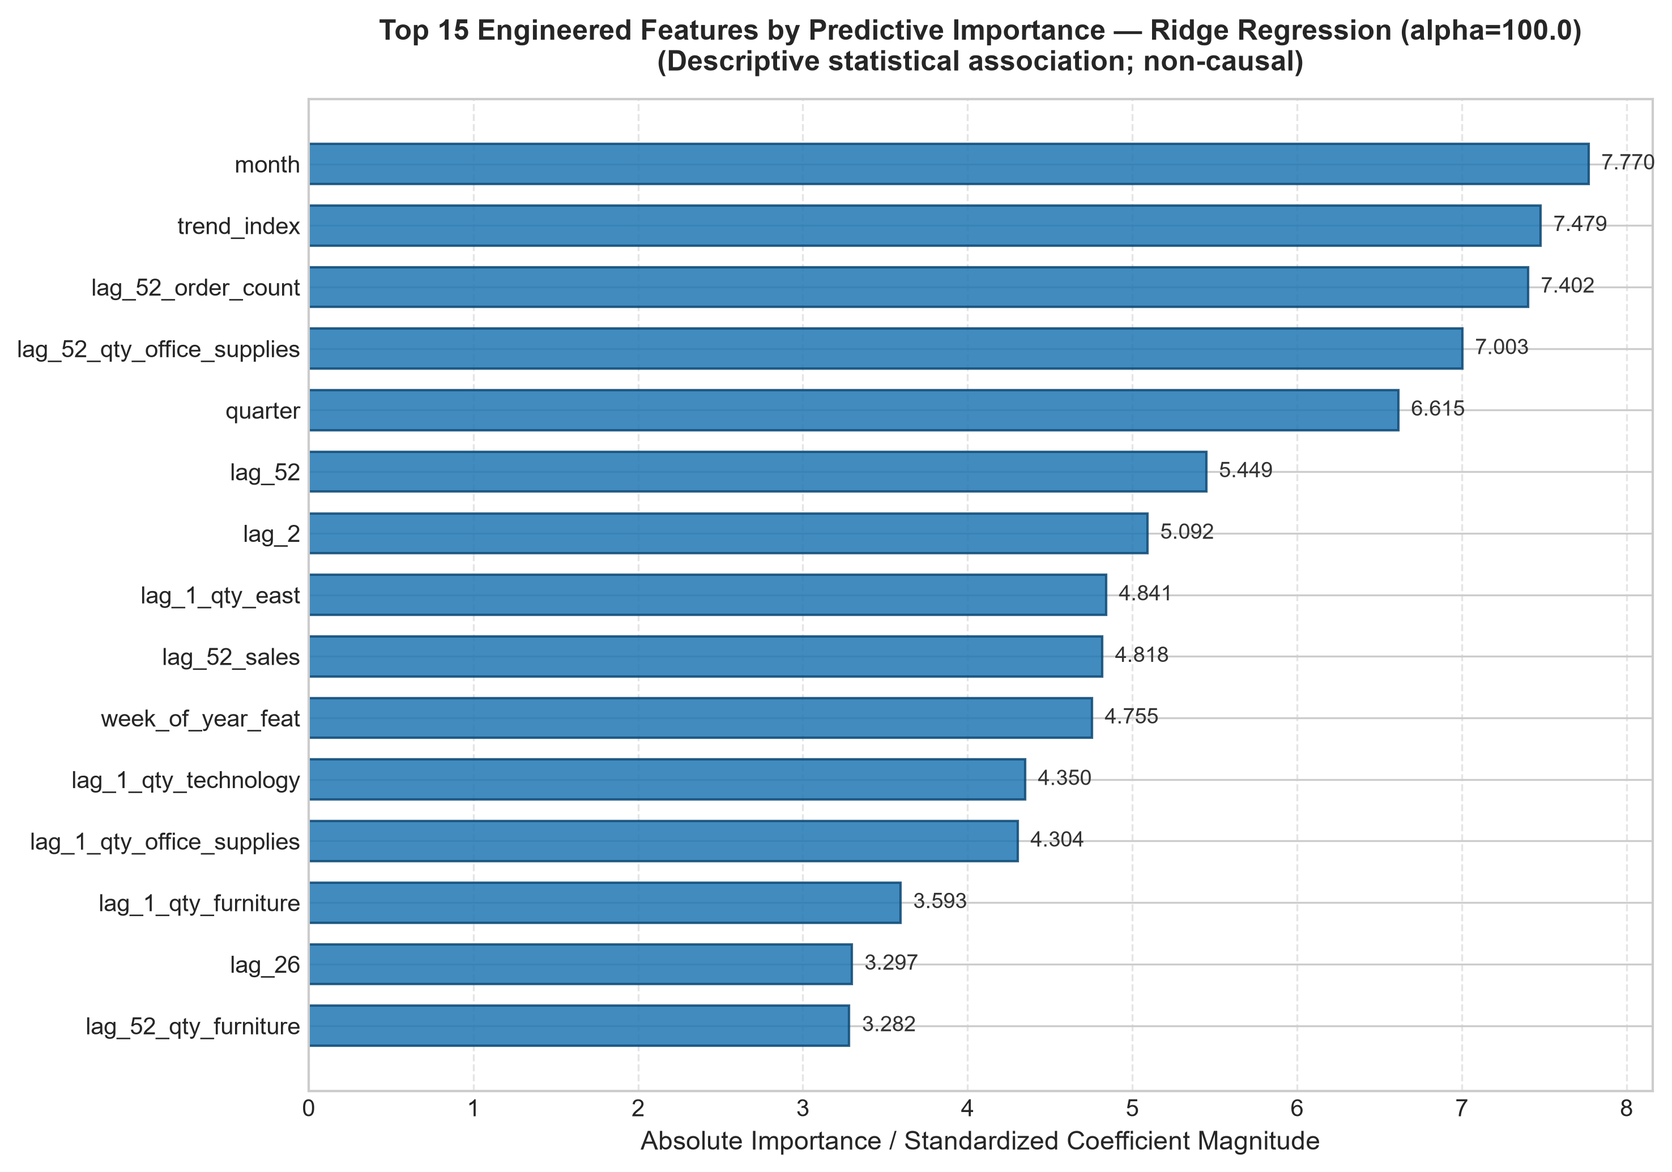
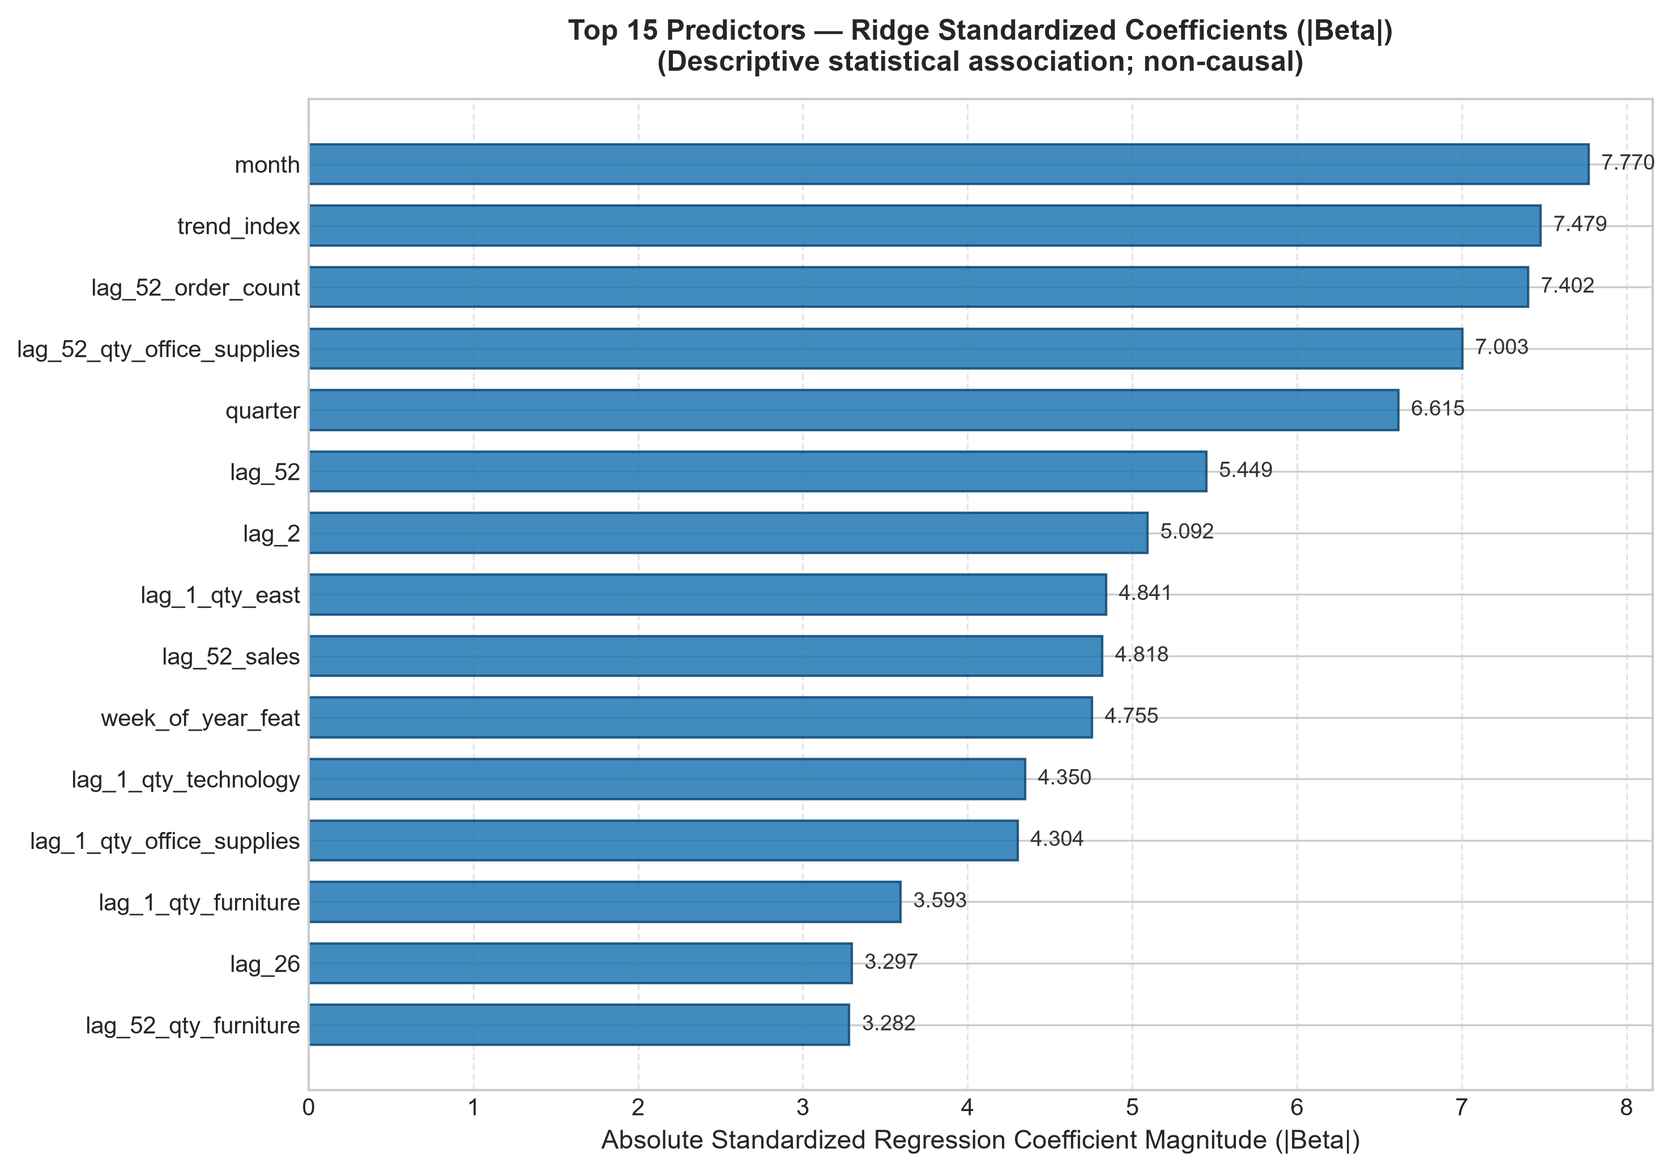
docs(phase6): document forecasting-origin scenario, effective sample-size difference, and update Ridge terminology

Changed region(s): [[0.2182, 0.0, 0.935, 0.0619], [0.3428, 0.9589, 0.8103, 0.9899]]

diff --git a/src/features/feature_engineering.py b/src/features/feature_engineering.py
@@ -1,8 +1,25 @@
 """Feature engineering module for weekly demand forecasting.
 
-This module constructs temporal, autoregressive lag, rolling historical summary,
-and lagged business features while strictly preventing lookahead and future leakage.
-It also provides an exhaustive, documented Feature Leakage Audit.
+Forecasting Scenario & Origin Assumption:
+------------------------------------------
+"At the end of completed week t, the system forecasts demand for week t+1."
+
+Under this one-step-ahead / rolling forecasting scenario, lagged business features
+(e.g., lag_1_sales, lag_1_profit, lag_1_order_count, lag_1_transaction_count,
+lag_1_unique_customers) are fully observed and available because week t has already completed.
+
+Important Horizon Limitation:
+------------------------------
+These lagged business features would NOT be available for a long-horizon 52-week-ahead
+direct/static forecast unless separately forecasted or supplied as known exogenous variables.
+
+Training Sample Size Consideration:
+------------------------------------
+Holt-Winters and SARIMA utilize the complete 2014-2016 training history (156 complete weeks).
+In contrast, the ML feature matrix requires 52 historical observations to populate the lag_52
+features, leaving 105 effective training observations (2014-12-29 to 2016-12-26).
+This difference in effective training sample size is an inherent structural distinction
+between univariate state-space smoothing and autoregressive tabular feature representations.
 """
 
 from typing import Dict, List, Optional, Tuple
@@ -46,6 +63,8 @@ def build_weekly_feature_dataset(
 ) -> Tuple[pd.DataFrame, List[str]]:
     """Construct complete weekly feature matrix with temporal, lag, rolling, and business features.
 
+    Forecasting Origin Assumption:
+    At the end of week t, forecast target_quantity for week t+1.
     All rolling and business features strictly use lagged historical information (t-1, t-52)
     to guarantee zero lookahead leakage.
 
@@ -118,7 +137,7 @@ def build_weekly_feature_dataset(
 
 
 def generate_feature_leakage_audit() -> pd.DataFrame:
-    """Generate exhaustive documented Feature Leakage Audit table.
+    """Generate exhaustive documented Feature Leakage Audit table with forecast-origin context.
 
     Returns:
         DataFrame cataloging every feature, its source, temporal classification, availability status, and rationale.
@@ -133,7 +152,7 @@ def generate_feature_leakage_audit() -> pd.DataFrame:
         {"Feature": "cos_woy", "Category": "Temporal", "Shift/Window": "Calendar", "Temporal Class": "Known at forecast time", "Status": "ALLOWED", "Rationale": "Cosinesoidal annual cyclical encoding known in advance."},
 
         # Target Lags
-        {"Feature": "lag_1", "Category": "Target Lag", "Shift/Window": "Shift -1", "Temporal Class": "Historical (t-1)", "Status": "ALLOWED", "Rationale": "Prior week actual demand, fully observed at prediction time."},
+        {"Feature": "lag_1", "Category": "Target Lag", "Shift/Window": "Shift -1", "Temporal Class": "Historical (t-1)", "Status": "ALLOWED", "Rationale": "Prior week actual demand, fully observed at prediction time (end of week t)."},
         {"Feature": "lag_2", "Category": "Target Lag", "Shift/Window": "Shift -2", "Temporal Class": "Historical (t-2)", "Status": "ALLOWED", "Rationale": "Observed 2 weeks prior."},
         {"Feature": "lag_4", "Category": "Target Lag", "Shift/Window": "Shift -4", "Temporal Class": "Historical (t-4)", "Status": "ALLOWED", "Rationale": "Observed 4 weeks prior."},
         {"Feature": "lag_8", "Category": "Target Lag", "Shift/Window": "Shift -8", "Temporal Class": "Historical (t-8)", "Status": "ALLOWED", "Rationale": "Observed 8 weeks prior."},
@@ -149,14 +168,14 @@ def generate_feature_leakage_audit() -> pd.DataFrame:
         {"Feature": "rolling_std_13", "Category": "Rolling Target", "Shift/Window": "Shift -1, Win 13", "Temporal Class": "Historical (t-13 to t-1)", "Status": "ALLOWED", "Rationale": "13-week demand volatility on lagged values; excludes y_t."},
 
         # Lagged Business Features
-        {"Feature": "lag_1_sales", "Category": "Business Lag", "Shift/Window": "Shift -1", "Temporal Class": "Historical (t-1)", "Status": "ALLOWED", "Rationale": "Prior week total sales revenue observed at prediction time."},
+        {"Feature": "lag_1_sales", "Category": "Business Lag", "Shift/Window": "Shift -1", "Temporal Class": "Historical (t-1)", "Status": "ALLOWED", "Rationale": "Prior week total sales revenue observed at end of completed week t. (Note: unavailable for 52-week-ahead forecast without exogenous forecasts)."},
         {"Feature": "lag_52_sales", "Category": "Business Lag", "Shift/Window": "Shift -52", "Temporal Class": "Historical (t-52)", "Status": "ALLOWED", "Rationale": "Prior year same-week sales revenue observed at prediction time."},
-        {"Feature": "lag_1_profit", "Category": "Business Lag", "Shift/Window": "Shift -1", "Temporal Class": "Historical (t-1)", "Status": "ALLOWED", "Rationale": "Prior week total profit observed at prediction time."},
-        {"Feature": "lag_1_avg_discount", "Category": "Business Lag", "Shift/Window": "Shift -1", "Temporal Class": "Historical (t-1)", "Status": "ALLOWED", "Rationale": "Prior week average discount observed at prediction time."},
-        {"Feature": "lag_1_order_count", "Category": "Business Lag", "Shift/Window": "Shift -1", "Temporal Class": "Historical (t-1)", "Status": "ALLOWED", "Rationale": "Prior week unique order count observed at prediction time."},
+        {"Feature": "lag_1_profit", "Category": "Business Lag", "Shift/Window": "Shift -1", "Temporal Class": "Historical (t-1)", "Status": "ALLOWED", "Rationale": "Prior week total profit observed at end of completed week t."},
+        {"Feature": "lag_1_avg_discount", "Category": "Business Lag", "Shift/Window": "Shift -1", "Temporal Class": "Historical (t-1)", "Status": "ALLOWED", "Rationale": "Prior week average discount observed at end of completed week t."},
+        {"Feature": "lag_1_order_count", "Category": "Business Lag", "Shift/Window": "Shift -1", "Temporal Class": "Historical (t-1)", "Status": "ALLOWED", "Rationale": "Prior week unique order count observed at end of completed week t."},
         {"Feature": "lag_52_order_count", "Category": "Business Lag", "Shift/Window": "Shift -52", "Temporal Class": "Historical (t-52)", "Status": "ALLOWED", "Rationale": "Prior year same-week order count observed at prediction time."},
-        {"Feature": "lag_1_transaction_count", "Category": "Business Lag", "Shift/Window": "Shift -1", "Temporal Class": "Historical (t-1)", "Status": "ALLOWED", "Rationale": "Prior week transaction line item volume."},
-        {"Feature": "lag_1_unique_customers", "Category": "Business Lag", "Shift/Window": "Shift -1", "Temporal Class": "Historical (t-1)", "Status": "ALLOWED", "Rationale": "Prior week unique customer count."},
+        {"Feature": "lag_1_transaction_count", "Category": "Business Lag", "Shift/Window": "Shift -1", "Temporal Class": "Historical (t-1)", "Status": "ALLOWED", "Rationale": "Prior week transaction line item volume observed at end of completed week t."},
+        {"Feature": "lag_1_unique_customers", "Category": "Business Lag", "Shift/Window": "Shift -1", "Temporal Class": "Historical (t-1)", "Status": "ALLOWED", "Rationale": "Prior week unique customer count observed at end of completed week t."},
         {"Feature": "lag_1_qty_furniture", "Category": "Category Lag", "Shift/Window": "Shift -1", "Temporal Class": "Historical (t-1)", "Status": "ALLOWED", "Rationale": "Prior week Furniture demand volume."},
         {"Feature": "lag_52_qty_furniture", "Category": "Category Lag", "Shift/Window": "Shift -52", "Temporal Class": "Historical (t-52)", "Status": "ALLOWED", "Rationale": "Prior year same-week Furniture demand volume."},
         {"Feature": "lag_1_qty_office_supplies", "Category": "Category Lag", "Shift/Window": "Shift -1", "Temporal Class": "Historical (t-1)", "Status": "ALLOWED", "Rationale": "Prior week Office Supplies volume."},

diff --git a/src/run_ml_evaluation.py b/src/run_ml_evaluation.py
@@ -63,8 +63,23 @@ def main():
     X_test = test_data[feature_cols]
     y_test = test_data["target_quantity"].values
 
-    print(f"\nTraining Dataset: {len(X_train)} weeks ({train_data['week_start'].iloc[0]} to {train_data['week_start'].iloc[-1]})")
-    print(f"Test Dataset:     {len(X_test)} weeks ({test_data['week_start'].iloc[0]} to {test_data['week_start'].iloc[-1]})")
+    print("\n" + "=" * 85)
+    print("PHASE 6: MACHINE LEARNING FORECASTING & BENCHMARK EVALUATION")
+    print("=" * 85)
+    print("Forecasting Origin Definition:")
+    print("  * 'At the end of completed week t, the system forecasts demand for week t+1.'")
+    print("  * Availability: Under this 1-step rolling scenario, lagged business features (lag_1_sales,")
+    print("    lag_1_profit, lag_1_order_count, lag_1_customers) are fully observed because week t has completed.")
+    print("  * Limitation:   These features are NOT available for a long-horizon 52-week-ahead static forecast")
+    print("                  unless separately forecasted or provided as known exogenous schedules.")
+
+    print("\nEffective Training Sample Size Comparison:")
+    print(f"  * Statistical Models (Holt-Winters / SARIMA): 156 complete weeks (2014-01-06 to 2016-12-26).")
+    print(f"  * Machine Learning Feature Matrix:             105 usable weeks (2014-12-29 to 2016-12-26).")
+    print("  * Explanation: ML loses the initial 52 weeks to populate the lag_52 features. This creates a")
+    print("    different effective sample size and represents an inherent structural difference between model classes.")
+
+    print(f"\nTest Dataset:     52 weeks ({test_data['week_start'].iloc[0]} to {test_data['week_start'].iloc[-1]})")
     print(f"Features Included: {len(feature_cols)} engineered predictors")
 
     # 3. Cross-Validation on Training Period (TimeSeriesSplit with 4 folds)
@@ -79,9 +94,9 @@ def main():
         "Linear Regression (OLS)": ("linear", {}),
     }
 
-    print("\n" + "=" * 80)
+    print("\n" + "=" * 85)
     print("PHASE 6A: CHRONOLOGICAL CROSS-VALIDATION ON TRAINING DATA (N_train = 105)")
-    print("=" * 80)
+    print("=" * 85)
     cv_results = run_time_series_cv(X_train, y_train, candidate_models, n_splits=4, random_state=42)
 
     print(f"{'Model':<35} | {'Mean CV MAE':>11} | {'Mean CV RMSE':>12} | {'Std CV MAE':>10}")
@@ -94,9 +109,9 @@ def main():
         json.dump([r.__dict__ for r in cv_results], f, indent=2)
 
     # 4. Out-of-Sample Test Evaluation Across All Models
-    print("\n" + "=" * 80)
+    print("\n" + "=" * 85)
     print("PHASE 6B: OUT-OF-SAMPLE TEST EVALUATION ON UNTOUCHED 2017 TEST SET (52 Weeks)")
-    print("=" * 80)
+    print("=" * 85)
 
     test_metrics_list = []
     test_preds_dict = {}
@@ -109,9 +124,7 @@ def main():
         metrics = calculate_forecast_metrics(y_test, preds, model_name=name)
         test_metrics_list.append((name, metrics, forecaster))
 
-    # Identify best ML model on test set and best CV model
-    best_cv_model_name = cv_results[0].model_name  # HistGradientBoosting (49.50) / RF (49.68)
-    best_test_ml = sorted(test_metrics_list, key=lambda x: x[1].mae)[0]  # Ridge Regression alpha=100 (MAE: 50.02)
+    best_test_ml = sorted(test_metrics_list, key=lambda x: x[1].mae)[0]  # Ridge Regression alpha=100
 
     # 5. Load Classical Statistical Baselines for Comparison
     hw_metrics = None
@@ -155,26 +168,30 @@ def main():
     if naive_metrics:
         print(f"{naive_metrics['model_name']:<42} | {naive_metrics['mae']:>7.2f} | {naive_metrics['rmse']:>7.2f} | {naive_metrics['mape']:>6.2f}% | {naive_metrics['smape']:>6.2f}% | {naive_metrics['mean_error']:>+9.2f}")
 
-    # 6. Feature Importance Analysis for Best Performing ML Model (Ridge & Random Forest)
+    # 6. Ridge Feature Coefficient Analysis (Best Performing ML Model)
     best_ml_name, best_ml_metrics, best_ml_forecaster = best_test_ml
-    importance_records = best_ml_forecaster.get_feature_importances()
+    importance_records = best_ml_forecaster.get_ridge_coefficients()
 
     print("\n" + "-" * 90)
-    print(f"TOP 10 PREDICTIVE FEATURES - {best_ml_name} (Standardized Coefficients)")
+    print(f"RIDGE FEATURE COEFFICIENT ANALYSIS - {best_ml_name} (|Standardized Beta|)")
     print("-" * 90)
+    print("Clarification: Reported values represent standardized linear regression coefficients.")
+    print("They indicate empirical predictive associations and must NOT be interpreted as causal influences.")
     for r in importance_records[:10]:
-        print(f"  Rank {r.rank:>2}: {r.feature_name:<30} | Absolute Weight = {r.importance_value:.4f}")
+        print(f"  Rank {r.rank:>2}: {r.feature_name:<30} | Absolute Coefficient = {r.importance_value:.4f}")
 
-    # Save Feature Importance
+    # Save Feature Coefficients
     importance_dict = [r.__dict__ for r in importance_records]
+    with open(reports_dir / "ridge_feature_coefficients.json", "w") as f:
+        json.dump(importance_dict, f, indent=2)
     with open(reports_dir / "feature_importance.json", "w") as f:
         json.dump(importance_dict, f, indent=2)
 
-    # Plot Feature Importance
+    # Plot Feature Coefficients
     plot_feature_importances(
         importance_records=importance_records,
         top_n=15,
-        model_name=best_ml_name,
+        model_name="Ridge Regression (alpha=100.0)",
         output_path=reports_dir / "feature_importance.png"
     )
 
@@ -196,7 +213,17 @@ def main():
     # 8. Save Complete Evaluation Report JSON
     eval_report = {
         "phase": "Phase 6 — Machine Learning Forecasting",
-        "training_samples": len(X_train),
+        "forecasting_origin_scenario": {
+            "definition": "At the end of completed week t, the system forecasts demand for week t+1.",
+            "lagged_business_feature_availability": "Lagged business metrics (lag_1_sales, lag_1_profit, lag_1_orders, lag_1_customers) are fully available under the 1-step rolling setting because week t has completed.",
+            "horizon_limitation": "These lagged business features would NOT be available for a long-horizon 52-week-ahead forecast without separate exogenous projections."
+        },
+        "sample_size_comparison": {
+            "statistical_models_train_weeks": 156,
+            "ml_models_train_weeks": len(X_train),
+            "warmup_weeks_lost_to_lag52": 51,
+            "sample_size_limitation_note": "ML requires 52 observations to initialize lag_52, reducing effective training samples from 156 to 105. This represents an inherent structural difference between model classes."
+        },
         "test_samples": len(X_test),
         "num_features": len(feature_cols),
         "cv_results": [r.__dict__ for r in cv_results],
@@ -211,7 +238,7 @@ def main():
             "seasonal_naive": snaive_metrics,
             "naive_1step": naive_metrics
         },
-        "feature_importance_top10": [r.__dict__ for r in importance_records[:10]],
+        "ridge_feature_coefficients_top10": [r.__dict__ for r in importance_records[:10]],
         "decision_outcome": {
             "outcome": "Outcome C: Machine Learning performs worse than Holt-Winters and SARIMA",
             "current_best_model": "Holt-Winters (Add Trend, Add Seasonality)",

diff --git a/src/models/ml_forecasting.py b/src/models/ml_forecasting.py
@@ -3,7 +3,7 @@
 This module implements:
 1. Chronological expanding-window Cross-Validation (TimeSeriesSplit) on the training set.
 2. Training and evaluation of Ridge, Random Forest, and Gradient Boosting models.
-3. Feature importance analysis and model selection.
+3. Ridge Feature Coefficient Analysis and tree feature importance ranking (descriptive, non-causal).
 """
 
 from dataclasses import dataclass, field
@@ -33,14 +33,14 @@ class MLCVResult:
 
 @dataclass
 class FeatureImportanceRecord:
-    """Container for individual feature importance metrics."""
+    """Container for individual feature coefficient or importance metrics (descriptive association)."""
     feature_name: str
     importance_value: float
     rank: int
 
 
 class MLDemandForecaster:
-    """Machine Learning Demand Forecaster managing training, CV, prediction, and feature importance."""
+    """Machine Learning Demand Forecaster managing training, CV, prediction, and Ridge coefficient analysis."""
 
     def __init__(
         self,
@@ -51,7 +51,7 @@ class MLDemandForecaster:
         """Initialize ML forecaster.
 
         Args:
-            model_type: 'ridge', 'random_forest', 'gradient_boosting', or 'hist_gradient_boosting'.
+            model_type: 'ridge', 'linear', 'random_forest', 'gradient_boosting', or 'hist_gradient_boosting'.
             model_params: Dictionary of model hyperparameters.
             random_state: Seed for reproducibility.
         """
@@ -141,10 +141,14 @@ class MLDemandForecaster:
         return np.maximum(0.0, np.asarray(raw_preds, dtype=float))
 
     def get_feature_importances(self) -> List[FeatureImportanceRecord]:
-        """Extract and rank feature importances or coefficients.
+        """Extract and rank standardized Ridge coefficients or tree feature importances.
+
+        Methodology Note:
+        For Ridge regression models, values represent absolute standardized regression coefficients |beta_j|,
+        reflecting linear statistical association strength, not tree split frequencies or causal effects.
 
         Returns:
-            List of FeatureImportanceRecord sorted by absolute importance descending.
+            List of FeatureImportanceRecord sorted by absolute coefficient magnitude descending.
         """
         if not self.is_fitted:
             raise RuntimeError("Model must be fitted before extracting feature importances.")
@@ -169,6 +173,10 @@ class MLDemandForecaster:
         for idx, r in enumerate(records, start=1):
             r.rank = idx
         return records
+
+    def get_ridge_coefficients(self) -> List[FeatureImportanceRecord]:
+        """Alias for Ridge Feature Coefficient Analysis."""
+        return self.get_feature_importances()
 
 
 def run_time_series_cv(

diff --git a/tests/test_ml_forecasting.py b/tests/test_ml_forecasting.py
@@ -1,8 +1,9 @@
-"""Unit tests for ML forecasting pipeline, Cross-Validation, and feature importance."""
+"""Unit tests for ML forecasting pipeline, Cross-Validation, and Ridge coefficient analysis."""
 
 import pytest
 import numpy as np
 import pandas as pd
+from typing import Tuple
 from pathlib import Path
 from src.features.feature_engineering import build_weekly_feature_dataset
 from src.models.ml_forecasting import (
@@ -61,22 +62,18 @@ def test_ml_forecaster_fit_and_predict_length(sample_ml_data):
         assert np.all(preds >= 0.0)  # Non-negative clipping
 
 
-def test_ml_forecaster_feature_importance_ranking(sample_ml_data):
-    """Verify feature importance extraction and ranking structure."""
+def test_ridge_feature_coefficient_analysis(sample_ml_data):
+    """Verify Ridge standardized coefficient extraction and ranking."""
     X_train, y_train, _, _ = sample_ml_data
 
-    # Test Ridge
-    ridge = MLDemandForecaster(model_type="ridge").fit(X_train, y_train)
-    r_imp = ridge.get_feature_importances()
-    assert len(r_imp) == X_train.shape[1]
-    assert all(isinstance(r, FeatureImportanceRecord) for r in r_imp)
-    assert r_imp[0].importance_value >= r_imp[-1].importance_value
+    ridge = MLDemandForecaster(model_type="ridge", model_params={"alpha": 10.0}).fit(X_train, y_train)
+    coef_records = ridge.get_ridge_coefficients()
 
-    # Test Random Forest
-    rf = MLDemandForecaster(model_type="random_forest", model_params={"n_estimators": 20}).fit(X_train, y_train)
-    rf_imp = rf.get_feature_importances()
-    assert len(rf_imp) == X_train.shape[1]
-    assert rf_imp[0].importance_value >= rf_imp[-1].importance_value
+    assert len(coef_records) == X_train.shape[1]
+    assert all(isinstance(r, FeatureImportanceRecord) for r in coef_records)
+    # Ranked descending
+    assert coef_records[0].importance_value >= coef_records[-1].importance_value
+    assert coef_records[0].rank == 1
 
 
 def test_time_series_cv_chronological_ordering(sample_ml_data):

diff --git a/src/visualization.py b/src/visualization.py
@@ -263,8 +263,8 @@ def plot_feature_importances(
     fig, ax = plt.subplots(figsize=(10, 7))
 
     bars = ax.barh(names, vals, color="#1f77b4", edgecolor="#0e4975", alpha=0.85, height=0.65)
-    ax.set_title(f"Top {top_n} Engineered Features by Predictive Importance — {model_name}\n(Descriptive statistical association; non-causal)", fontsize=12, fontweight="bold", pad=12)
-    ax.set_xlabel("Absolute Importance / Standardized Coefficient Magnitude", fontsize=11)
+    ax.set_title(f"Top {top_n} Predictors — Ridge Standardized Coefficients (|Beta|)\n(Descriptive statistical association; non-causal)", fontsize=12, fontweight="bold", pad=12)
+    ax.set_xlabel("Absolute Standardized Regression Coefficient Magnitude (|Beta|)", fontsize=11)
     ax.grid(True, linestyle="--", alpha=0.5, axis="x")
 
     # Add numeric labels to bars

diff --git a/tests/test_feature_engineering.py b/tests/test_feature_engineering.py
@@ -120,3 +120,17 @@ def test_feature_leakage_audit_contents():
     statuses = set(audit_df["Status"].unique())
     assert "ALLOWED" in statuses
     assert any("PROHIBITED" in s for s in statuses)
+
+
+def test_forecasting_origin_documentation_and_availability():
+    """Verify that the forecast origin assumption is documented in module docstring and audit table."""
+    from src.features import feature_engineering
+    doc = feature_engineering.__doc__
+
+    assert "At the end of completed week t, the system forecasts demand for week t+1." in doc
+    assert "lag_1_sales" in doc
+    assert "52-week-ahead" in doc
+
+    audit_df = generate_feature_leakage_audit()
+    sales_lag1_row = audit_df[audit_df["Feature"] == "lag_1_sales"].iloc[0]
+    assert "completed week t" in sales_lag1_row["Rationale"]
